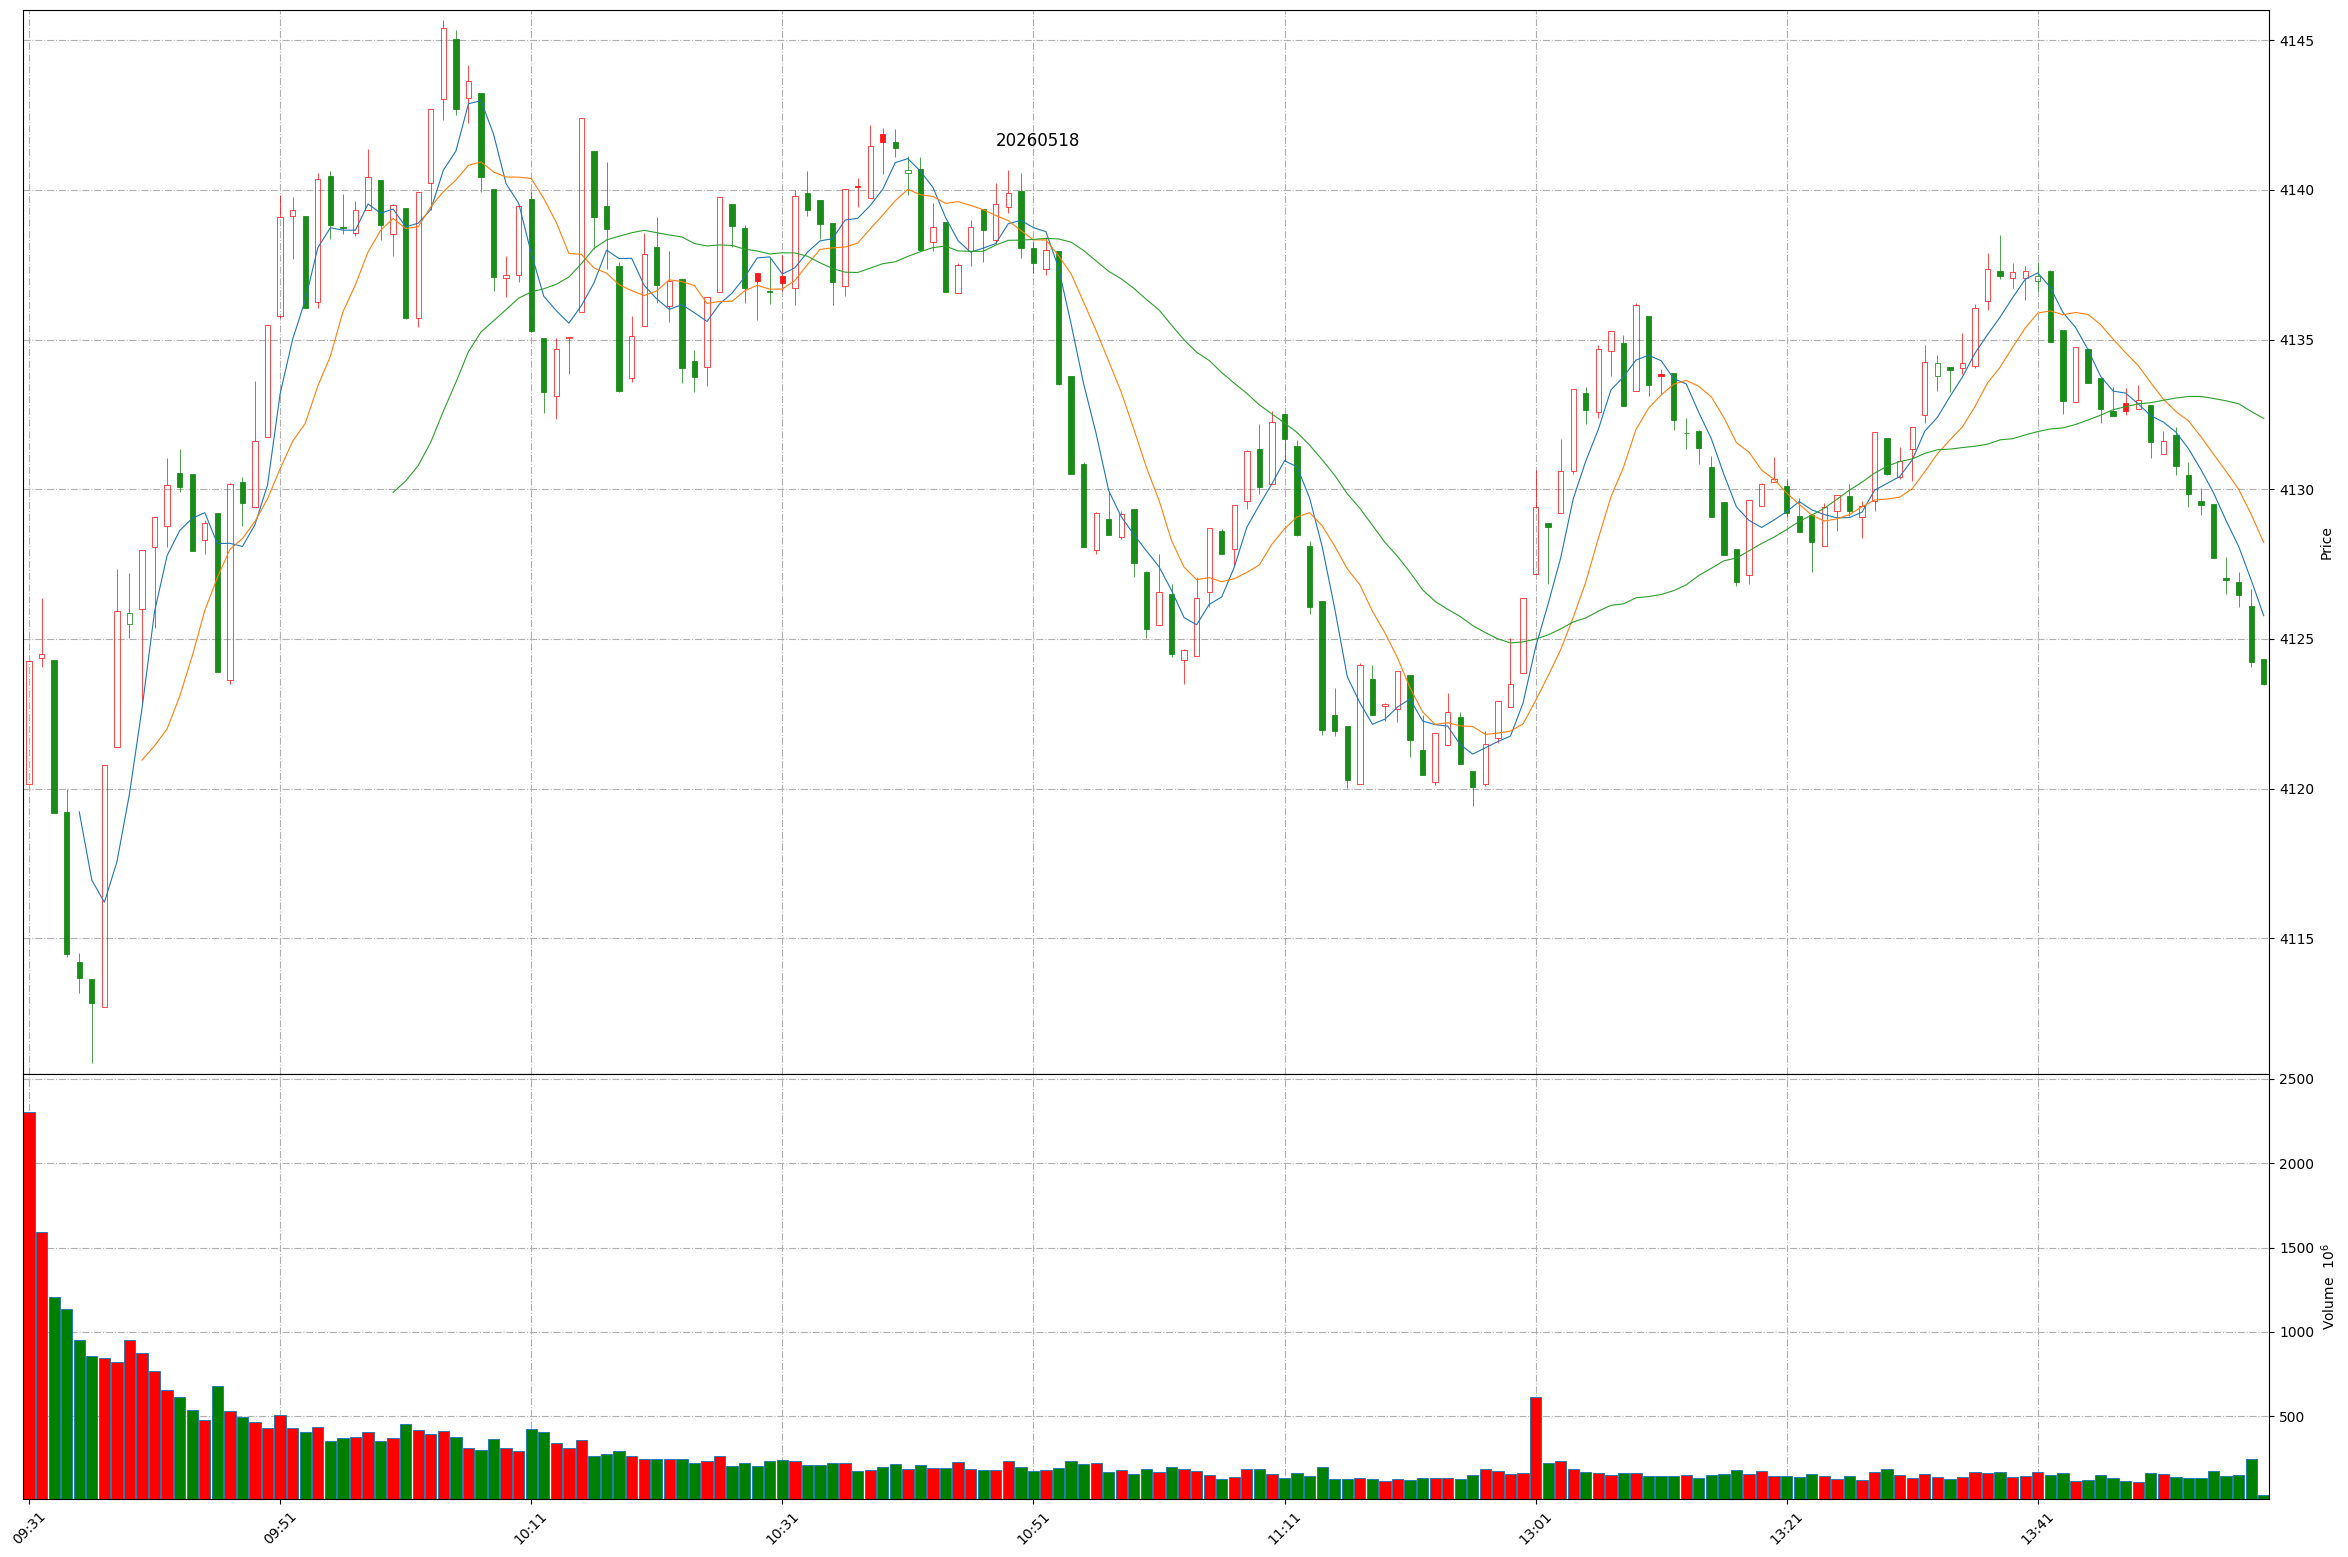
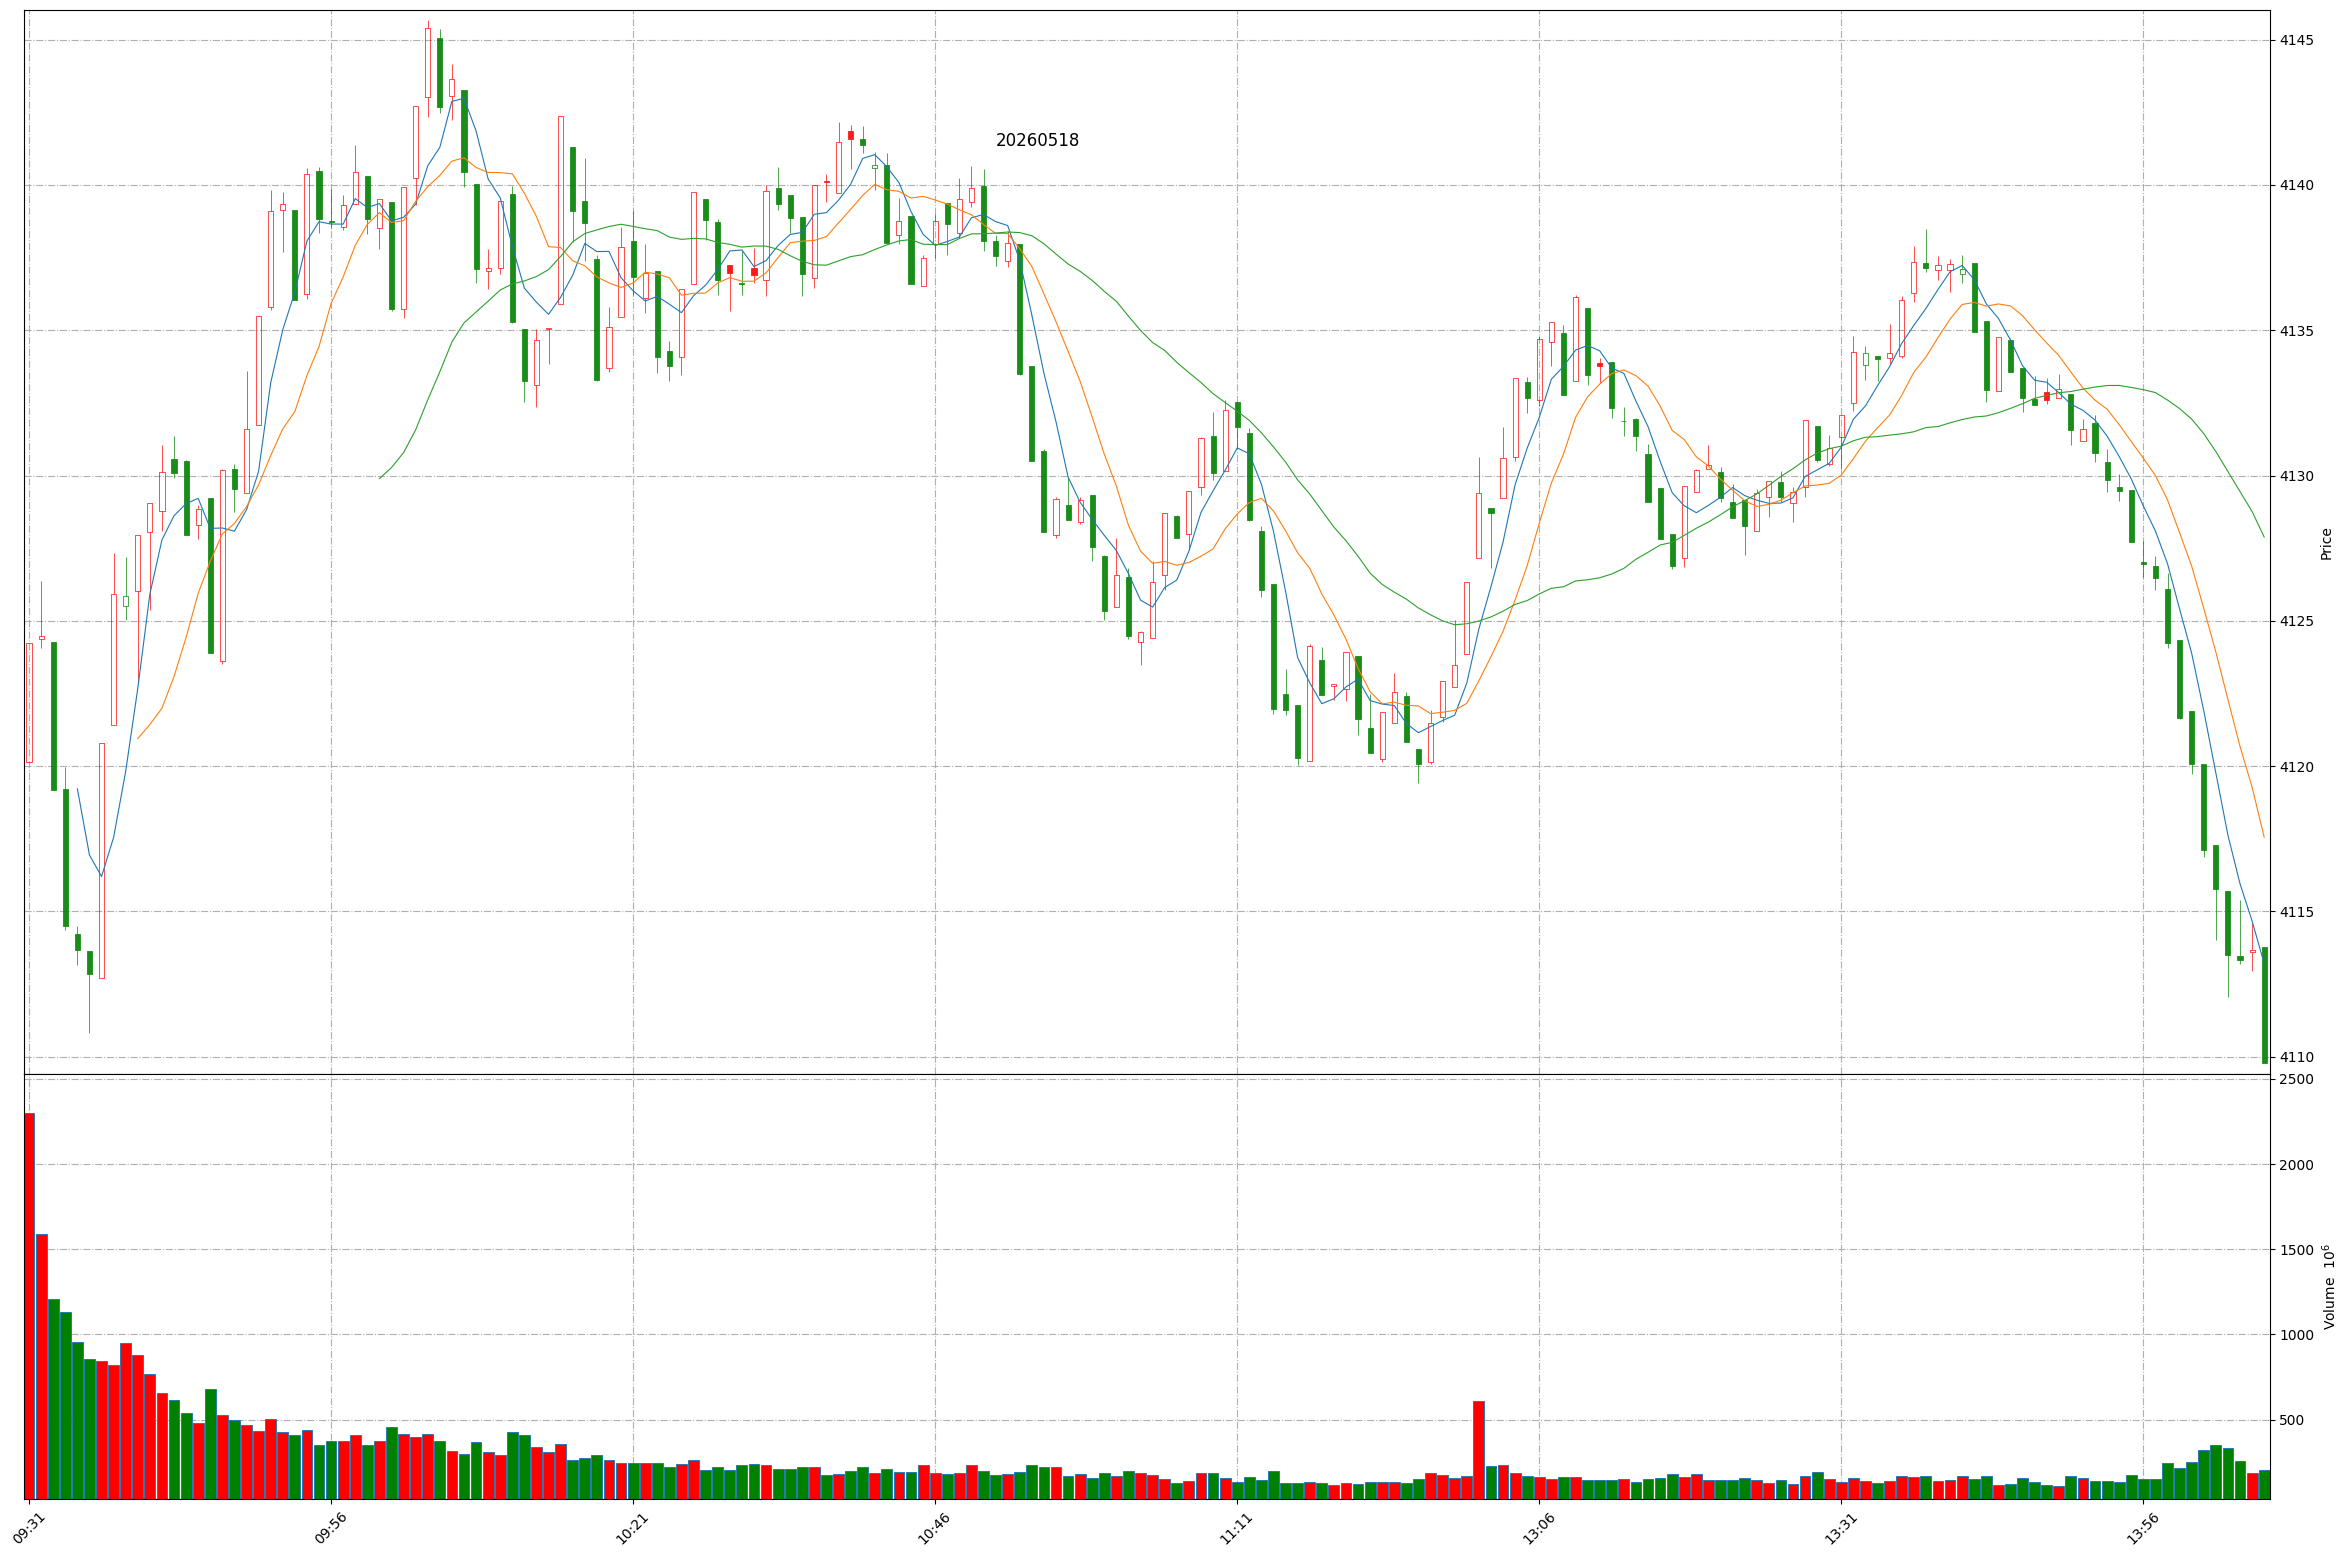
Github action update at 2026-05-18 14:05:53.

diff --git a/README.md b/README.md
@@ -1,11 +1,11 @@
 
 # Daily-A-share-market-quotes 每日 A 股指数（5min 更新）- 20260518
 
-### 上证指数 20260518 13:58
+### 上证指数 20260518 14:5
 ![](./fig/2026/5/20260518-sh000001.png)
 
-### 深证成指 20260518 13:58
+### 深证成指 20260518 14:5
 ![](./fig/2026/5/20260518-sz399001.png)
 
-### 北证50 20260518 13:58
+### 北证50 20260518 14:5
 ![](./fig/2026/5/20260518-bj899050.png)
